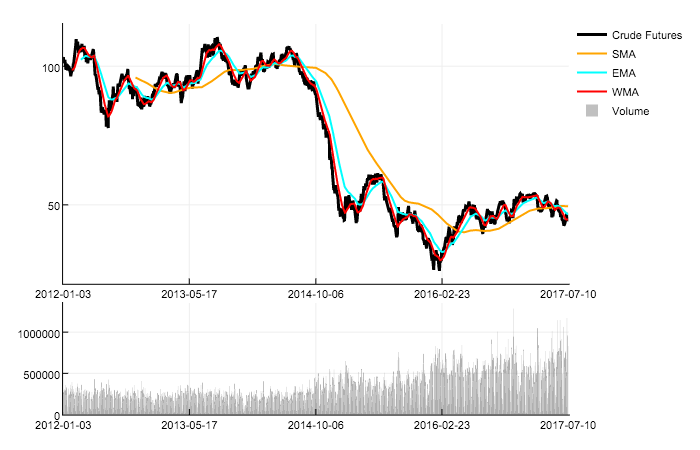
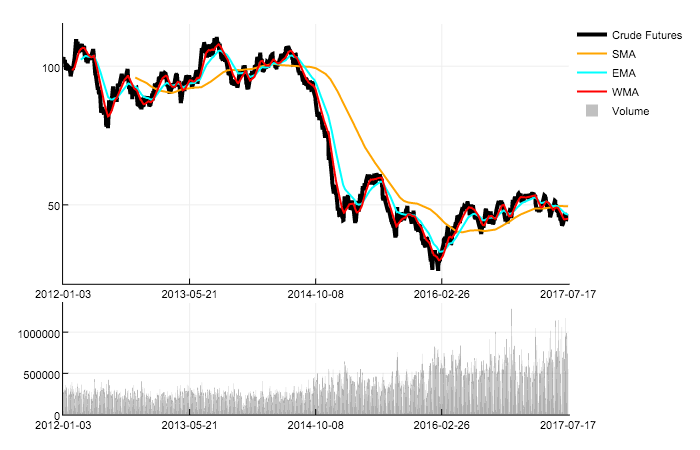
updated readme and examples with visualizations

diff --git a/README.md b/README.md
@@ -764,7 +764,18 @@ julia> avg_return_fracker = mean(diff(log(cl(fracker_era))))
 5.909038158559879e-5
 ````
 
+## Aggregation/collapsing functionality
+
+````julia
+
+eom(crude)  # Get the last values observed at the end of each month
+[crude.index eom(crude.index)]  # (NOTE: the `eom` function returns a Boolean Vector when passed a Vector of TimeTypes)
+collapse(crude, eom(crude.index), fun=mean)  # monthly averages for all columns
+collapse(crude[:Volume], eoy(crude.index), fun=sum)  # Get the total yearly trading volume of crude oil
+````
+
 ## Visualization
+
 Visualization capabilities are made available by the plotting API's made available by the impressively thorough and all-encompassing [Plots.jl](https://github.com/JuliaPlots/Plots.jl) package.
 
 However, the ambitious and far-reaching nature of this project makes it such that precompilation is not an easy task. Since `Temporal` is precompiled, all of its dependencies must be precompilable (including `Plots`). Hence, in order for `Temporal` to build and plotting to work, you will need a version of `Plots` that is able to __precompile__. As of the time of this writing, I believe the *master* branch of the package repository is required, which appears to be some 0.12.0 pre-release version (`v"0.12.0+"`).
@@ -778,27 +789,19 @@ subset = "2012/"
 x = cl(X)[subset]
 x.fields[1] = :CrudeFutures
 
-# add some moving averages
-V = [x sma(x,n=200) ema(x,n=50)]
+# merge with some technical indicators
+D = [x sma(x,n=200) ema(x,n=50)]
 
-# visualizations
-ℓ = Plots.@layout [ a{0.7h}; b{0.3h} ]
-plot(V, c=[:black :orange :cyan], w=[3 2 2], layout=ℓ, subplot=1)
+# visualize the multivariate time series object
+using Plots
+plotlyjs()
+ℓ = @layout [ a{0.7h}; b{0.3h} ]
+plot(D, c=[:black :orange :cyan], w=[4 2 2], layout=ℓ, subplot=1)
 plot!(wma(x,n=25), c=:red, w=2, subplot=1)
 bar!(X["2012/",:Volume], c=:grey, alpha=0.5, layout=ℓ, subplot=2)
 ```
 
 ![alt text](https://raw.githubusercontent.com/dysonance/Temporal.jl/master/examples/visualization_example1.png)
-
-## Aggregation/collapsing functionality
-
-````julia
-
-eom(crude)  # Get the last values observed at the end of each month
-[crude.index eom(crude.index)]  # (NOTE: the `eom` function returns a Boolean Vector when passed a Vector of TimeTypes)
-collapse(crude, eom(crude.index), fun=mean)  # monthly averages for all columns
-collapse(crude[:Volume], eoy(crude.index), fun=sum)  # Get the total yearly trading volume of crude oil
-````
 
 # Acknowledgements
 This package is inspired mostly by R's [xts](https://github.com/joshuaulrich/xts) package and Python's [pandas](http://pandas.pydata.org/) package. Both packages expedite the often tedious process of acquiring & munging data and provide impressively well-developed and feature-rick toolkits for analysis.
